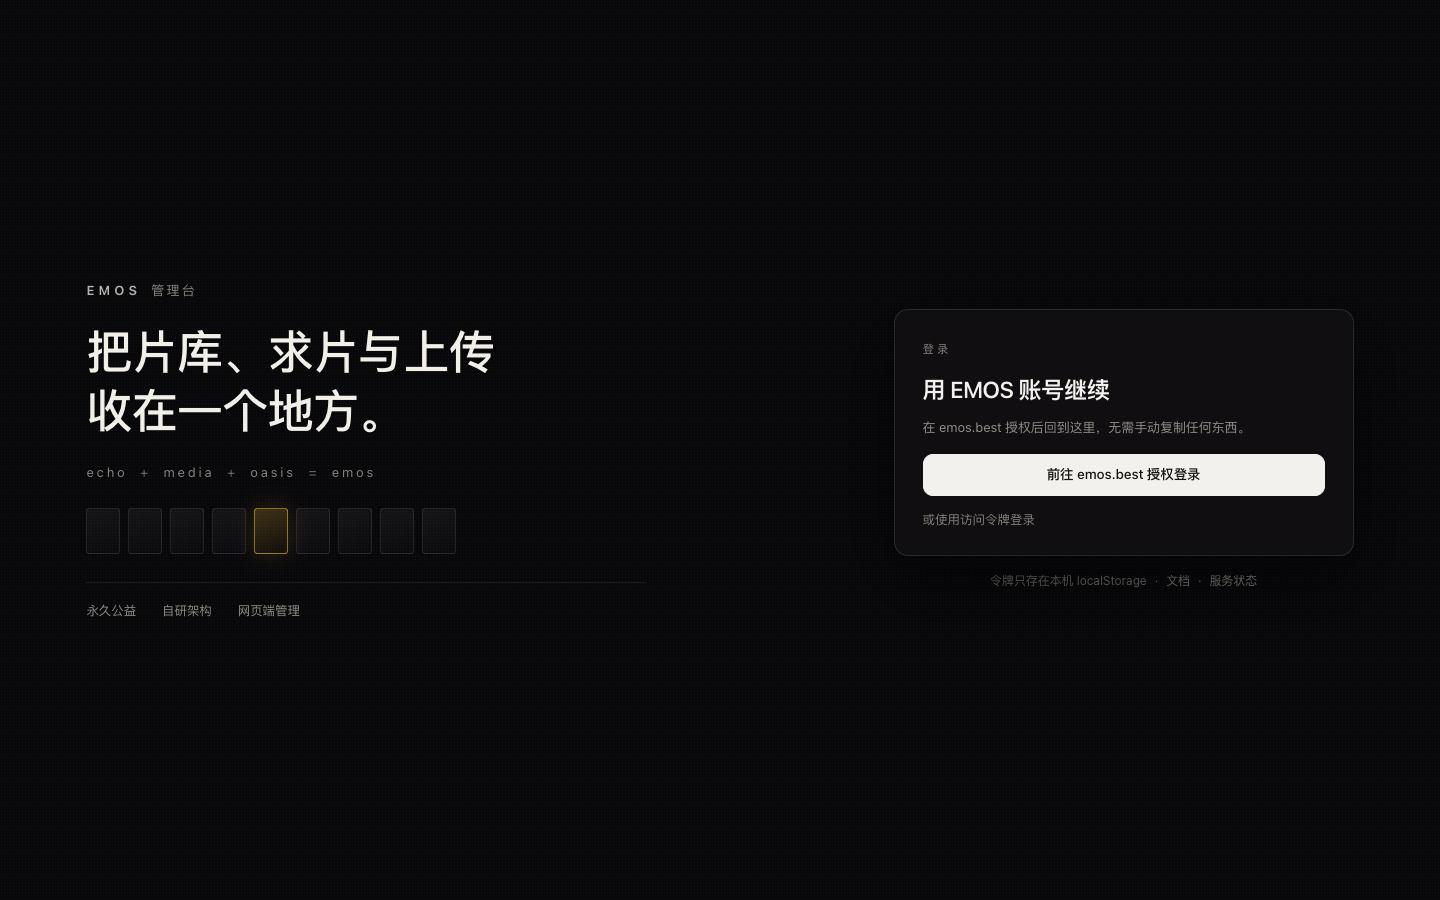
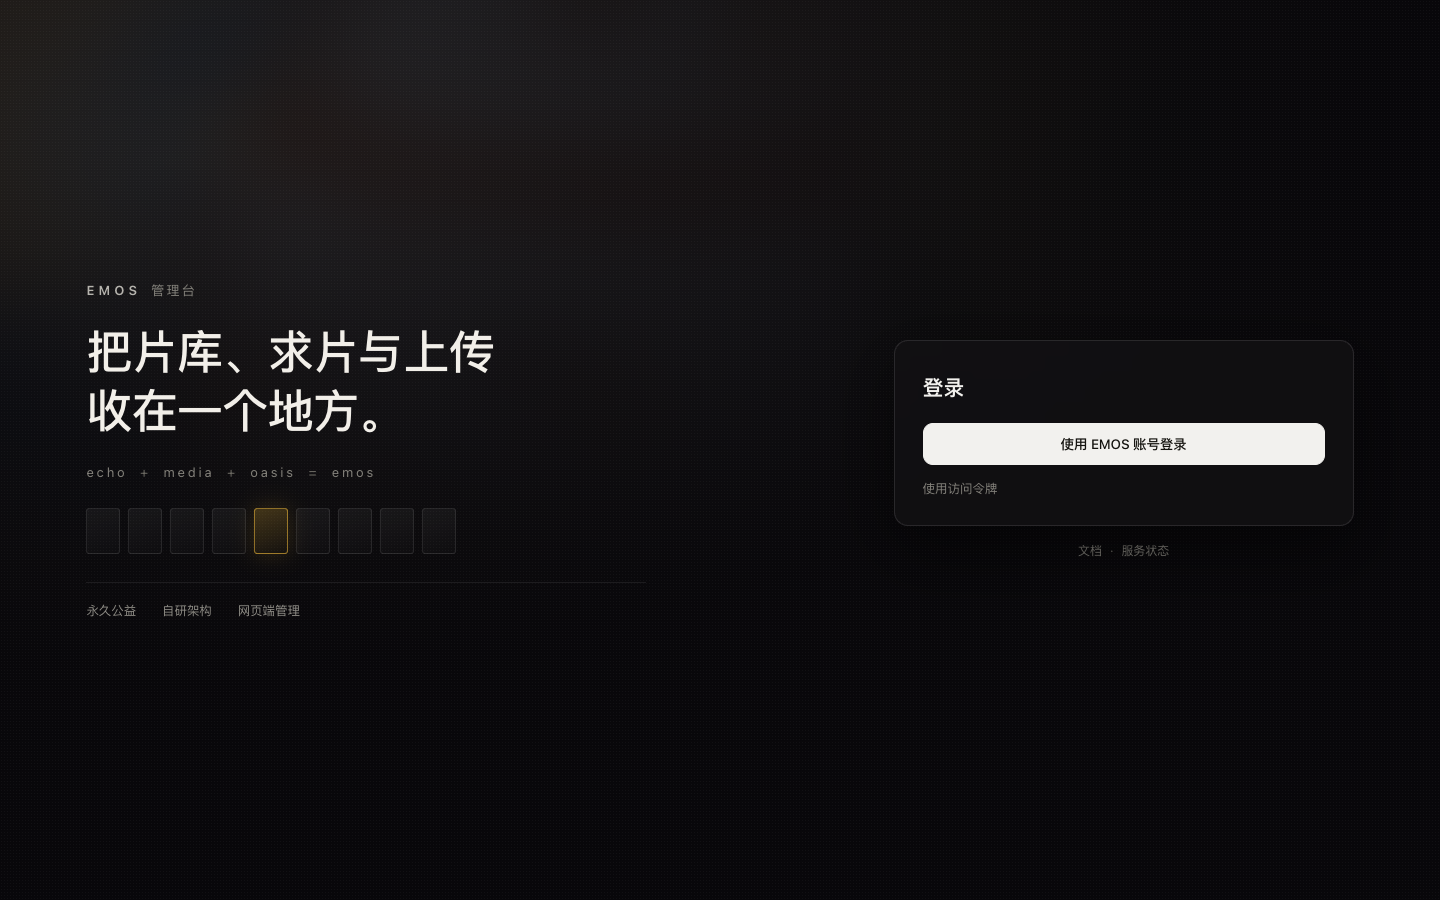
style(login): 右侧文案收敛
- 去掉「登录」小标签与说明句，标题只留「登录」
- 主按钮「前往 emos.best 授权登录」→「使用 EMOS 账号登录」
- 次要入口→「使用访问令牌」
- 页脚去掉 localStorage 说明，只留文档与状态两个链接

diff --git a/src/views/LoginView.tsx b/src/views/LoginView.tsx
@@ -90,16 +90,14 @@ export function LoginView({ onDone }: { onDone: () => void }) {
 
       <section className="login__panel">
         <div className="login__card">
-          <p className="login__eyebrow">登录</p>
-          <h2 className="login__title">用 EMOS 账号继续</h2>
-          <p className="login__sub">在 emos.best 授权后回到这里，无需手动复制任何东西。</p>
+          <h2 className="login__title">登录</h2>
 
           <a className="btn btn--primary login__cta" href={authUrl()}>
-            前往 emos.best 授权登录
+            使用 EMOS 账号登录
           </a>
 
           <button className="login__toggle" type="button" onClick={() => setManual((value) => !value)} aria-expanded={manual}>
-            {manual ? '收起令牌登录' : '或使用访问令牌登录'}
+            {manual ? '收起' : '使用访问令牌'}
           </button>
 
           {manual ? (
@@ -161,8 +159,6 @@ export function LoginView({ onDone }: { onDone: () => void }) {
         </div>
 
         <p className="login__foot">
-          令牌只存在本机 localStorage
-          <span aria-hidden="true">·</span>
           <a href="https://wiki.emos.best" target="_blank" rel="noreferrer">
             文档
           </a>

diff --git a/src/styles/components.css b/src/styles/components.css
@@ -1323,8 +1323,8 @@ th.num .th-sort { flex-direction: row-reverse; }
 }
 
 .login__title {
-  margin: 0;
-  font-size: 23px;
+  margin: 0 0 6px;
+  font-size: 21px;
   font-weight: 550;
   letter-spacing: -0.01em;
   color: var(--fg);
